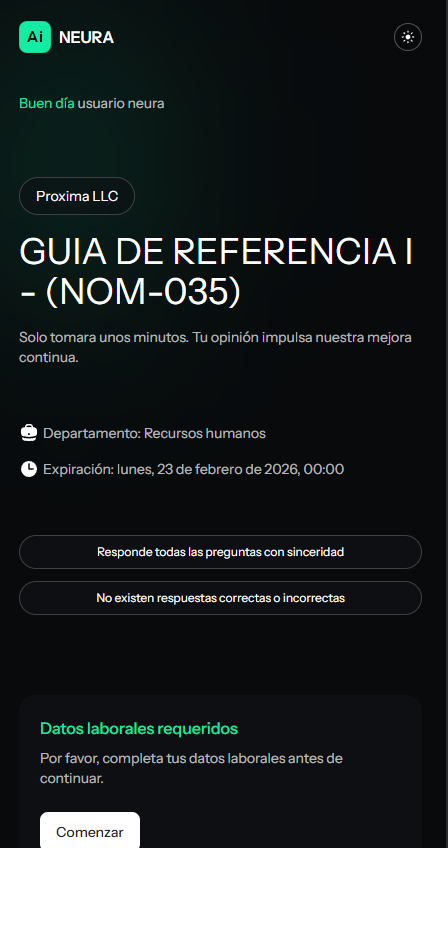
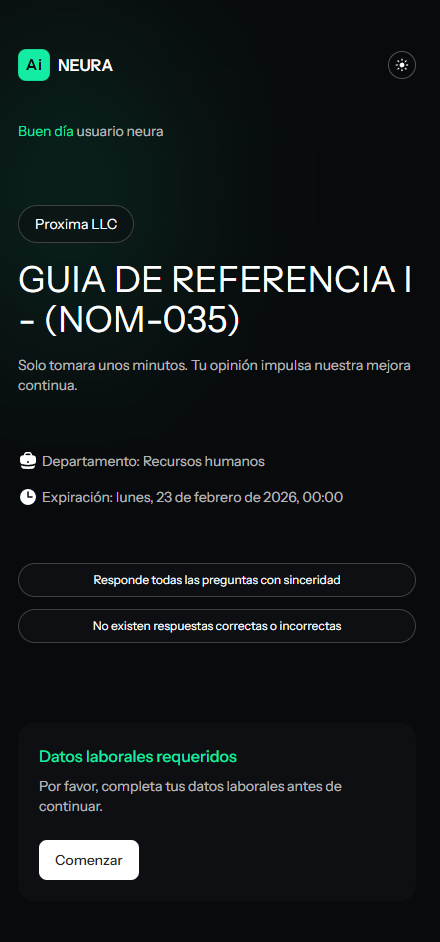
Refactor mobile form 1 image

diff --git a/resources/views/livewire/application/show.blade.php b/resources/views/livewire/application/show.blade.php
@@ -24,7 +24,7 @@
             </flux:text>
         </div>
         <div class="space-y-4">
-            <div class="py-2 px-4 mt-16 rounded-full text-center text-sm border bg-light-variant dark:bg-dark-variant border-neutral-300 dark:border-neutral-700 inline-block mx-auto">
+            <div class="py-2 px-4 mt-16 rounded-full text-center text-sm border bg-light-variant dark:bg-dark-variant/50 border-neutral-300 dark:border-neutral-700 inline-block mx-auto">
                 {{ $company_name }}
             </div>
             <h1 class="text-4xl max-w-4xl uppercase">